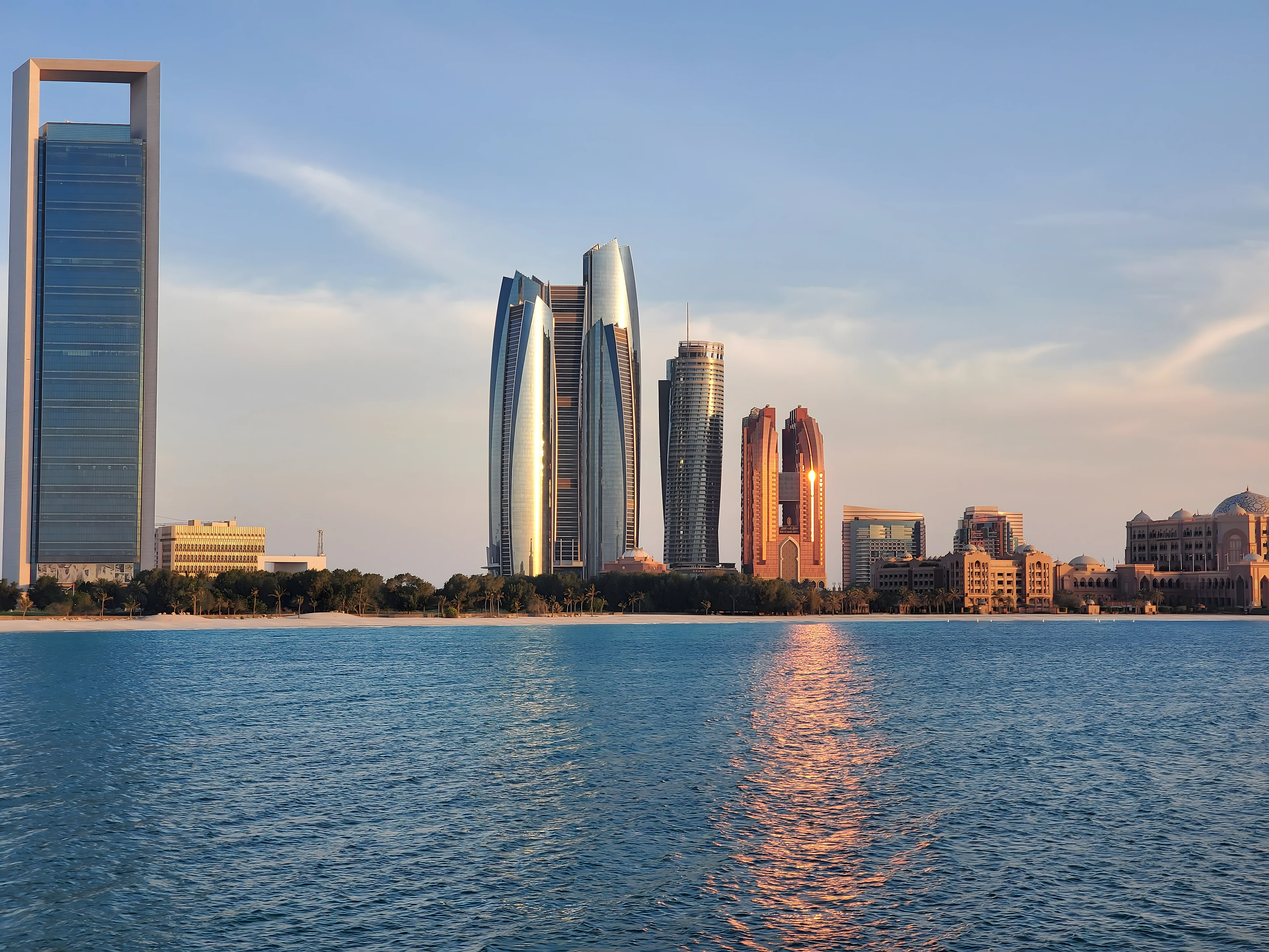
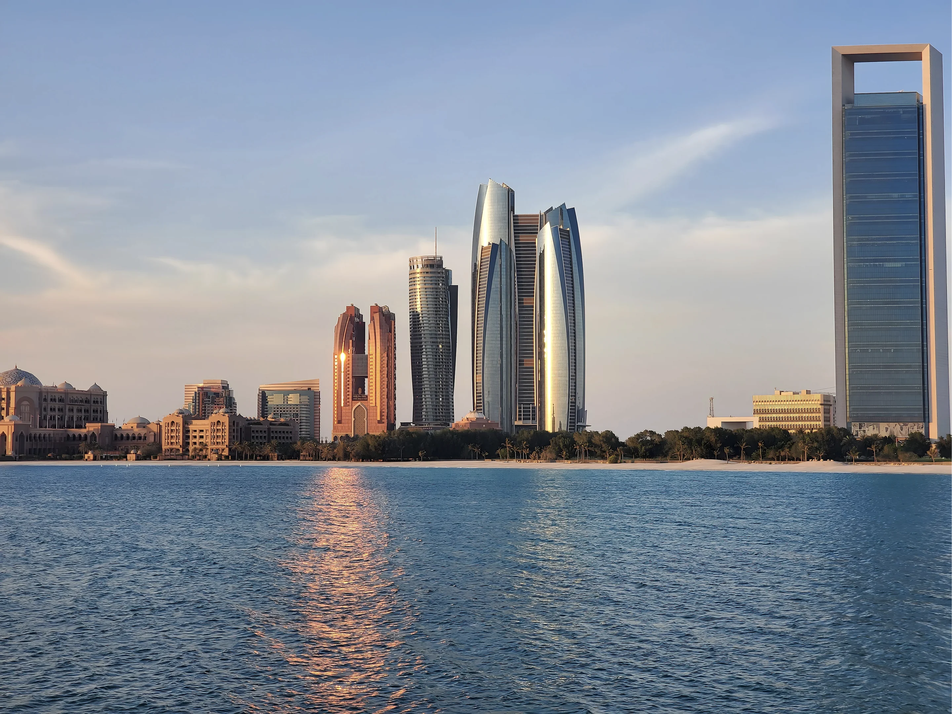
perf: optimize homepage and about hero backdrop images
- Homepage hero: 1.7MB → 918KB WebP (2880x2160, q85)
- About hero: 1.5MB JPG → 131KB WebP (3840x3717, q85)

File replacements only — no layout or positioning changes.

diff --git a/app/about/page.tsx b/app/about/page.tsx
@@ -130,7 +130,7 @@ export default function AboutPage() {
       >
         <div className="about-hero-media" aria-hidden="true">
           <Image
-            src="/images/about/hero-bg.jpg"
+            src="/images/about/hero-bg.webp"
             alt=""
             fill
             className="object-fill"
